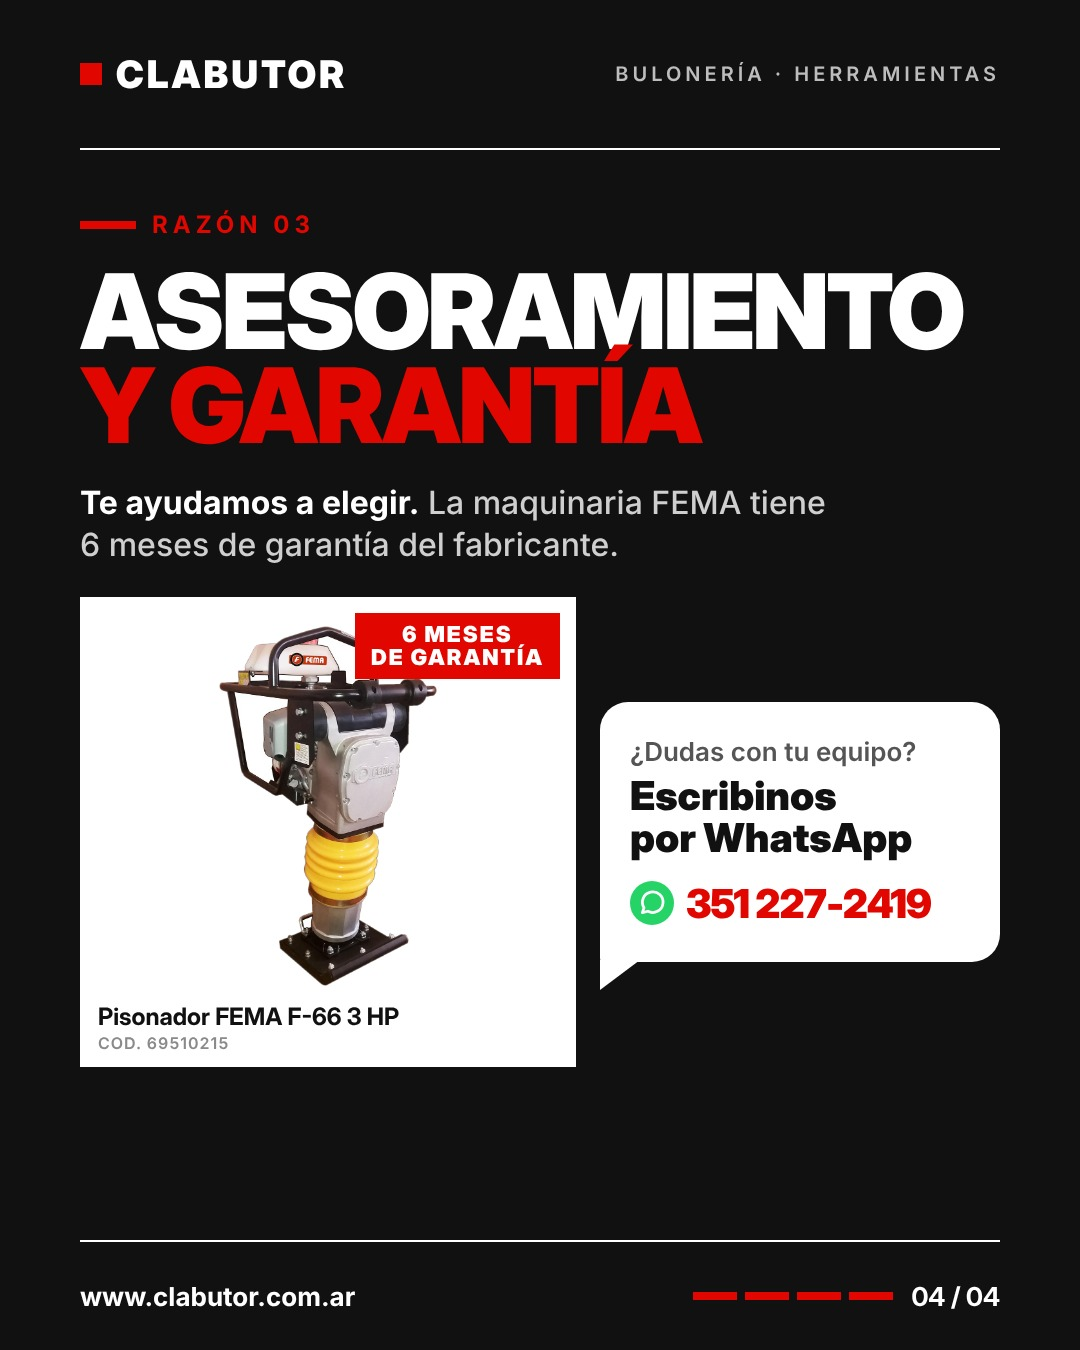
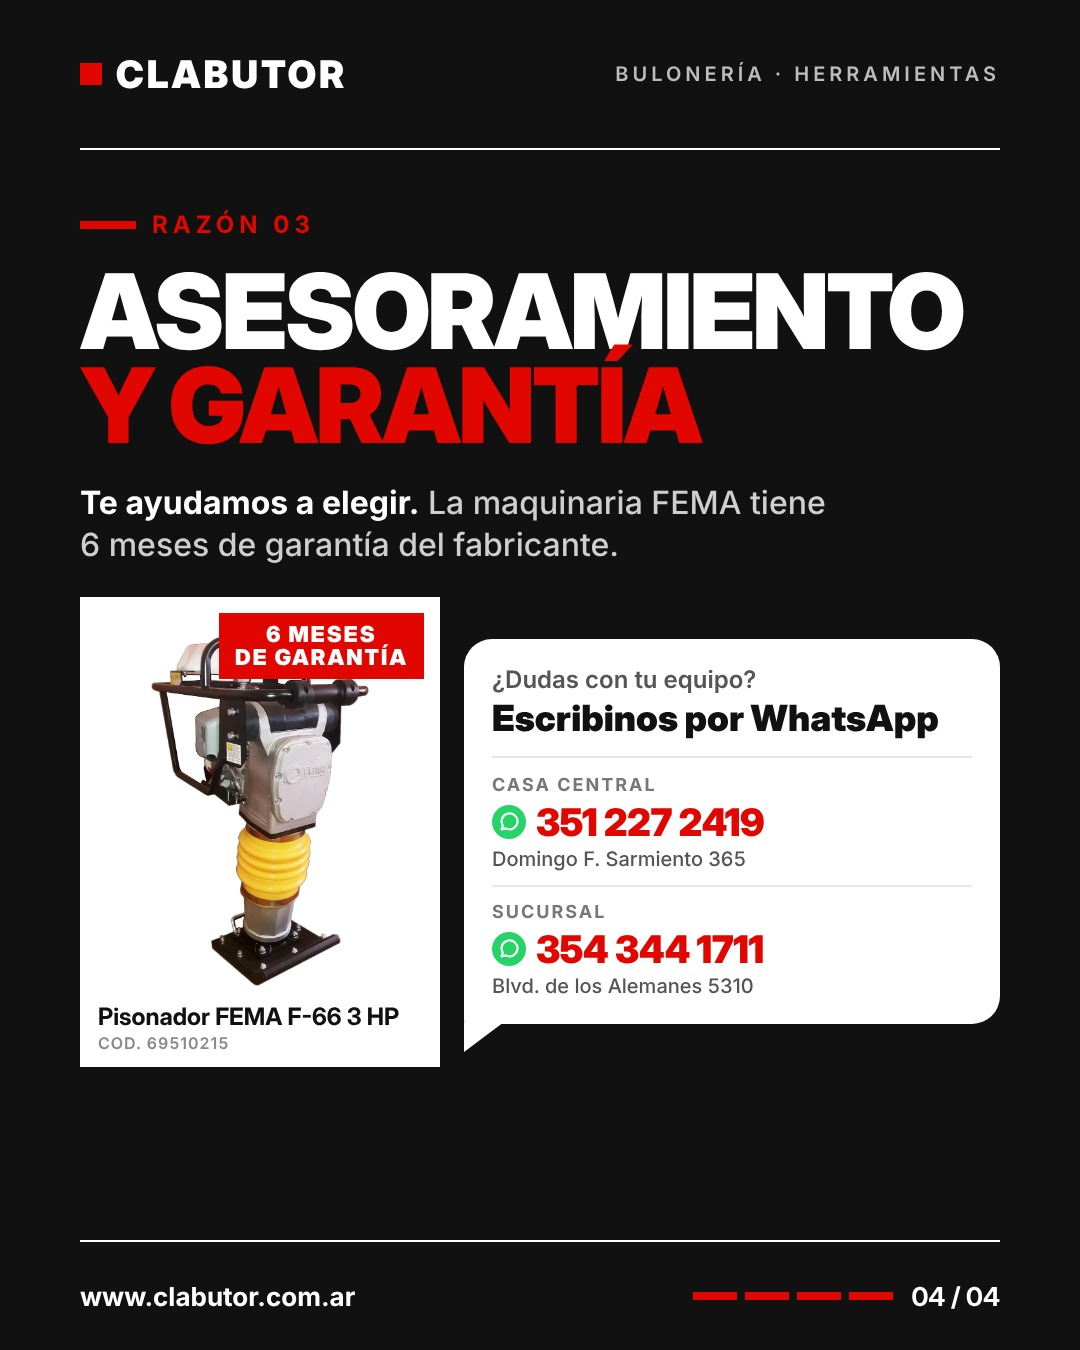
Posteo 3: los dos WhatsApp (casa central y sucursal) con dirección; regla de contacto
Claude-Session: https://claude.ai/code/session_01XbJLpPx7CCs1ipZpL6GiAh

Changed region(s): [[0.1222, 0.4356, 0.9472, 0.8089]]

diff --git a/disenos/posteos/posteo-03.py b/disenos/posteos/posteo-03.py
@@ -7,8 +7,9 @@ RUBRO = "Bulonería · Herramientas"
 TEXTO = """
 Comprá tranquilo en Clabutor: hasta 12 cuotas con tarjeta o precio especial en efectivo o transferencia, envío express en 48 hs y asesoramiento para elegir bien. La maquinaria FEMA tiene 6 meses de garantía del fabricante.
 
-Comprá en clabutor.com.ar o escribinos al WhatsApp 351 227-2419.
-Casa central: Domingo F. Sarmiento 365 · Sucursal: Blvd. de los Alemanes 5310
+Comprá en clabutor.com.ar o escribinos por WhatsApp:
+Casa central: 351 227 2419 · Domingo F. Sarmiento 365
+Sucursal: 354 344 1711 · Blvd. de los Alemanes 5310
 
 #clabutor #cordoba #herramientas #ferreteria #fema
 """
@@ -110,7 +111,7 @@ def placas(g):
 <div class="volanta">Razón 03</div>
 <h1 style="font-size:104px">Asesoramiento<br><em>y garantía</em></h1>
 <p class="bajada" style="font-size:32px"><b>Te ayudamos a elegir.</b> La maquinaria FEMA tiene<br>6 meses de garantía del fabricante.</p>
-<div style="display:grid;grid-template-columns:1fr 400px;gap:24px;margin-top:30px;height:470px;overflow:hidden">
+<div style="display:grid;grid-template-columns:360px 1fr;gap:24px;margin-top:30px;height:470px;overflow:hidden">
   <div style="position:relative;background:#fff;display:flex;flex-direction:column">
     <div style="flex:1;min-height:0;display:flex;align-items:center;justify-content:center;padding-top:14px">{foto4}</div>
     <div style="padding:0 18px 14px;color:#111">
@@ -120,12 +121,18 @@ def placas(g):
     <div style="position:absolute;top:16px;right:16px;background:{ROJO};color:#fff;padding:10px 16px;font-family:Titular;font-weight:900;font-size:22px;letter-spacing:2px;line-height:1.05;text-align:center">6 MESES<br>DE GARANTÍA</div>
   </div>
   <div style="display:flex;flex-direction:column;justify-content:center">
-    <div style="position:relative;background:#fff;color:#111;padding:34px 30px;border-radius:28px 28px 28px 4px">
-      <div style="font-weight:600;font-size:26px;color:#555">¿Dudas con tu equipo?</div>
-      <div style="font-family:Titular;font-weight:900;font-size:40px;line-height:1.05;margin-top:8px">Escribinos<br>por WhatsApp</div>
-      <div style="display:flex;align-items:center;gap:12px;margin-top:20px">
-        <svg width="44" height="44" viewBox="0 0 32 32"><circle cx="16" cy="16" r="16" fill="#25D366"/><path d="M9 23l1.2-3.6A7.5 7.5 0 1 1 13 22Z" fill="none" stroke="#fff" stroke-width="2" stroke-linejoin="round"/></svg>
-        <span style="font-family:Titular;font-weight:900;font-size:40px;letter-spacing:-1px;color:{ROJO}">351 227-2419</span>
+    <div style="position:relative;background:#fff;color:#111;padding:26px 28px;border-radius:28px 28px 28px 4px">
+      <div style="font-weight:600;font-size:24px;color:#555">¿Dudas con tu equipo?</div>
+      <div style="font-family:Titular;font-weight:900;font-size:36px;line-height:1.05;margin-top:6px">Escribinos por WhatsApp</div>
+      <div style="margin-top:18px;padding-top:16px;border-top:2px solid #E6E6E6">
+        <div style="font-weight:700;font-size:18px;letter-spacing:2px;color:#777">CASA CENTRAL</div>
+        <div style="display:flex;align-items:center;gap:10px;margin-top:4px"><svg width="34" height="34" viewBox="0 0 32 32"><circle cx="16" cy="16" r="16" fill="#25D366"/><path d="M9 23l1.2-3.6A7.5 7.5 0 1 1 13 22Z" fill="none" stroke="#fff" stroke-width="2" stroke-linejoin="round"/></svg><span style="font-family:Titular;font-weight:900;font-size:38px;letter-spacing:-.5px;color:{ROJO}">351 227 2419</span></div>
+        <div style="font-weight:500;font-size:20px;color:#555;margin-top:2px">Domingo F. Sarmiento 365</div>
+      </div>
+      <div style="margin-top:14px;padding-top:14px;border-top:2px solid #E6E6E6">
+        <div style="font-weight:700;font-size:18px;letter-spacing:2px;color:#777">SUCURSAL</div>
+        <div style="display:flex;align-items:center;gap:10px;margin-top:4px"><svg width="34" height="34" viewBox="0 0 32 32"><circle cx="16" cy="16" r="16" fill="#25D366"/><path d="M9 23l1.2-3.6A7.5 7.5 0 1 1 13 22Z" fill="none" stroke="#fff" stroke-width="2" stroke-linejoin="round"/></svg><span style="font-family:Titular;font-weight:900;font-size:38px;letter-spacing:-.5px;color:{ROJO}">354 344 1711</span></div>
+        <div style="font-weight:500;font-size:20px;color:#555;margin-top:2px">Blvd. de los Alemanes 5310</div>
       </div>
       <svg width="40" height="30" viewBox="0 0 40 30" style="position:absolute;left:0;bottom:-28px"><path d="M0 0h40L0 30Z" fill="#fff"/></svg>
     </div>

diff --git a/disenos/REGLAS.md b/disenos/REGLAS.md
@@ -32,3 +32,8 @@
 - Campaña CyberMonday: azul oscuro #0B1F3A + naranja #FF6A00, y cinta fija "CYBERMONDAY · 2·3·4 NOV" arriba en todas las piezas.
 - La cinta va debajo de la barra de perfil de Instagram y el pie (www.clabutor.com.ar abajo a la izquierda) por encima de la zona de respuesta, para que nada quede tapado.
 - Ofertas: una sola por placa, producto recortado, grande y sobre fondo liso; precio anterior tachado en gris y chico; precio cyber grande en naranja; debajo "12 cuotas" (clases `.precio-antes`, `.precio-cyber`, `.cuotas`).
+
+## Contacto (WhatsApp)
+- Siempre los dos números, sin guiones y separados por espacios, con la dirección si hay lugar:
+  - Casa central: 351 227 2419 · Domingo F. Sarmiento 365
+  - Sucursal: 354 344 1711 · Blvd. de los Alemanes 5310
